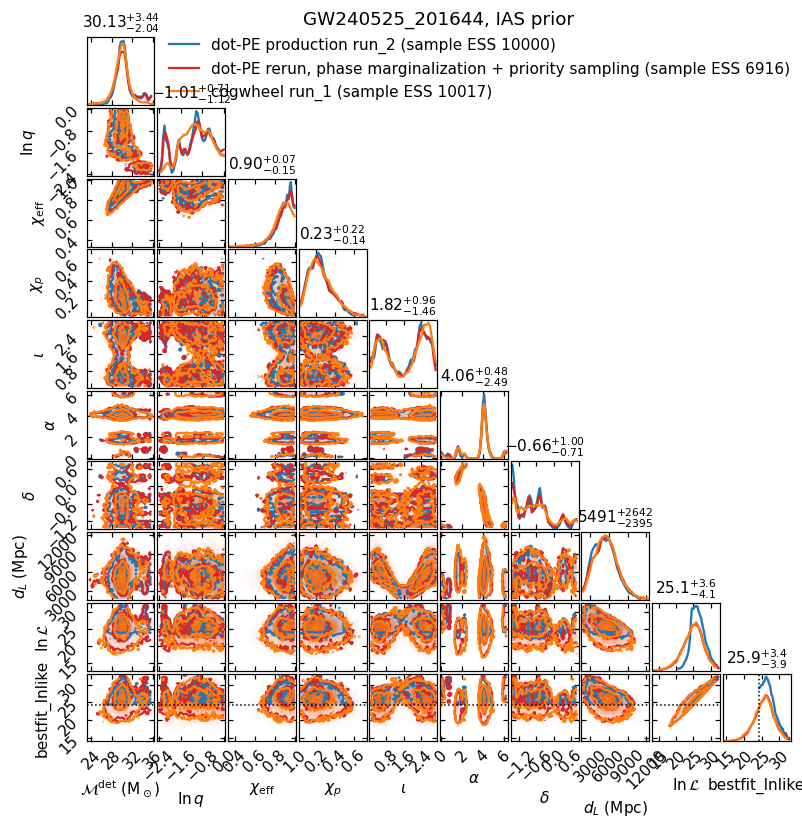
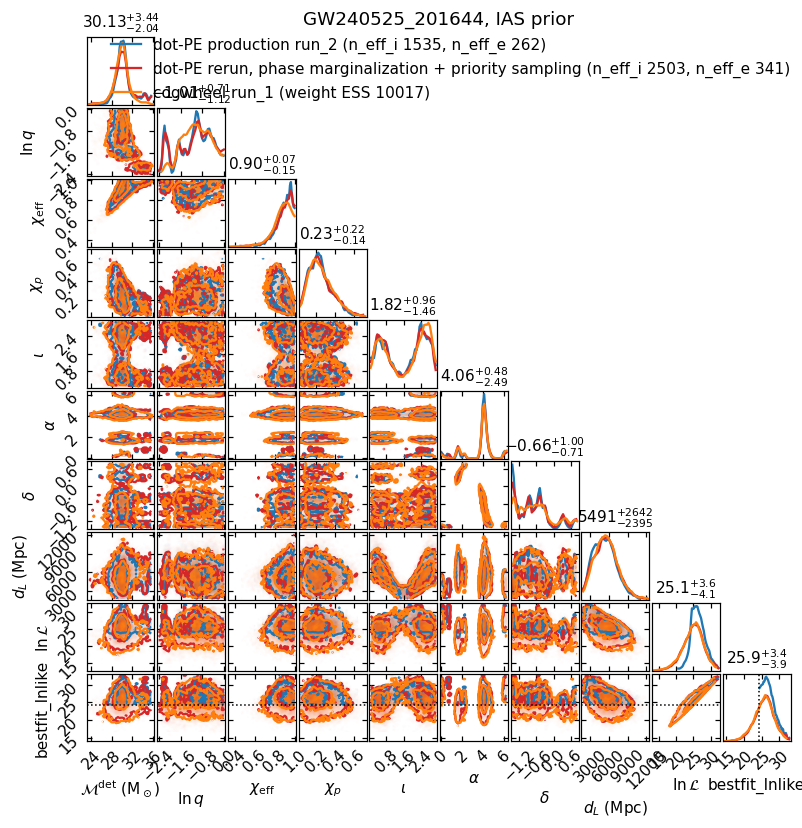
research: E5 corner legends use n_effective_i/e (samples are equal-weight draws)
Claude-Session: https://claude.ai/code/session_015Ha8CowgXaDTZuUXirm2SN

Changed region(s): [[0.1559, 0.0302, 0.9975, 0.1208]]

diff --git a/research/row-limit/solution_corners.py b/research/row-limit/solution_corners.py
@@ -13,6 +13,7 @@ Env o4a-pe. Usage: python solution_corners.py --rerun EVENT=RUNDIR [...]
 from __future__ import annotations
 
 import argparse
+import json
 import sys
 from pathlib import Path
 
@@ -96,11 +97,14 @@ def main() -> None:
             ("LVK", (p_lvk, r_lvk, c_lvk),
              "cogwheel, LVK-prior run" if src == "direct" else "cogwheel, reweighted to LVK prior"),
         ):
+            summ = "summary_results.json" if prior == "IAS" else "summary_results_lvc.json"
+            sp, sr = (json.loads((d / summ).read_text()) for d in (prod, rd))
             sets = [
-                (f"dot-PE production {prod.name} (sample ESS {kish(p['weights']):.0f})", cs.COLOR_DOTPE, p),
+                (f"dot-PE production {prod.name} (n_eff_i {sp['n_effective_i']:.0f}, "
+                 f"n_eff_e {sp['n_effective_e']:.0f})", cs.COLOR_DOTPE, p),
                 (f"dot-PE rerun, phase marginalization + priority sampling "
-                 f"(sample ESS {kish(r['weights']):.0f})", RED, r),
-                (f"{cog_note} {cog.name} (sample ESS {kish(c['weights']) if 'weights' in c else len(c):.0f})",
+                 f"(n_eff_i {sr['n_effective_i']:.0f}, n_eff_e {sr['n_effective_e']:.0f})", RED, r),
+                (f"{cog_note} {cog.name} (weight ESS {kish(c['weights']) if 'weights' in c else len(c):.0f})",
                  cs.COLOR_COGWHEEL, c),
             ]
             figure(ev, prior, sets, HERE / "review" / f"fig5_corner_{ev}_{prior}.png")
